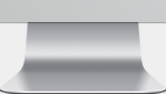
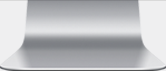
Settings GUI change

diff --git a/Mind Booster/src/com/psychotechnology/GUI/Settings/SettingsPanel.java b/Mind Booster/src/com/psychotechnology/GUI/Settings/SettingsPanel.java
@@ -4,6 +4,7 @@ import java.awt.BorderLayout;
 import java.awt.Color;
 import java.awt.GridBagConstraints;
 import java.awt.GridBagLayout;
+import java.awt.GridLayout;
 import java.awt.Insets;
 import java.io.File;
 
@@ -25,10 +26,15 @@ public class SettingsPanel extends JPanel implements ChangeListener {
 	private Controller controller;
 	private JPanel screenPanel;
 	private PictureLabel screenLabel;
+	private PictureLabel standLabel;
 	public static ImageIcon screen;
+	public static ImageIcon stand;
+	public static ImageIcon picture;
+	public static ImageIcon topLeftMsg;
+	public static JPanel standPanel;
 	public static JPanel picturePanel;
 	public static PictureLabel pictureLabel;
-	public static ImageIcon picture;
+	public static PictureLabel topLeftMsgLabel;
 	private JSlider speedSlider;
 	private JSlider durationSlider;
 	private JLabel speedLabel;
@@ -39,7 +45,7 @@ public class SettingsPanel extends JPanel implements ChangeListener {
 	public SettingsPanel(Controller controller) {
 		this.controller = controller;
 		initComponents();
-		setupSettingsUI();
+		//tupSettingsUI();
 		setupUI();
 		styleUI();
 
@@ -78,11 +84,23 @@ public class SettingsPanel extends JPanel implements ChangeListener {
 	public void initComponents() {
 		screenPanel = new JPanel();
 		screen = IconFetch.getInstance().getIcon("/com/psychotechnology/images/screen.png");
-		screenLabel = new PictureLabel(picture);
+		screenLabel = new PictureLabel(screen);
+		screenPanel.setLayout(new BorderLayout());
+		screenPanel.add(screenLabel, BorderLayout.CENTER);
+		
+		topLeftMsg = IconFetch.getInstance().getIcon("/com/psychotechnology/images/placeholder.png");
+		topLeftMsgLabel = new PictureLabel(topLeftMsg);
+		screenPanel.add(topLeftMsgLabel, BorderLayout.NORTH);
+		
+		standPanel = new JPanel();
+		stand = IconFetch.getInstance().getIcon("/com/psychotechnology/images/stand.png");
+		standLabel = new PictureLabel(stand);
 		
 		picturePanel = new JPanel();
 		picture = new ImageIcon();
 		pictureLabel = new PictureLabel(picture);
+		picturePanel.setLayout(new BorderLayout());
+		picturePanel.add(pictureLabel, BorderLayout.CENTER);
 
 		speedSlider = new JSlider(0, 1000, 50);
 		durationSlider = new JSlider(0, 5000, 50);
@@ -105,12 +123,6 @@ public class SettingsPanel extends JPanel implements ChangeListener {
 
 	public void setupUI() {
 		
-		screenPanel.setLayout(new BorderLayout());
-		screenPanel.add(pictureLabel, BorderLayout.CENTER);
-		
-		picturePanel.setLayout(new BorderLayout());
-		picturePanel.add(pictureLabel, BorderLayout.CENTER);
-
 		/* GridBagLayout settings */
 		setLayout(new GridBagLayout());// set LayoutManager
 		setBackground(Color.decode("#efeff0"));
@@ -118,19 +130,31 @@ public class SettingsPanel extends JPanel implements ChangeListener {
 
 		gc.gridx = 0;
 		gc.gridy = 0;
-		gc.gridwidth = 1;
+		gc.gridwidth = 3;
 		gc.gridheight = 1;
 		gc.weightx = 1;
-		gc.weighty = 0.1;
-		gc.insets = new Insets(90, 0, 30, 30);
+		gc.weighty = 0.6;
+		gc.insets = new Insets(90, 0, 0, 30);
 		gc.anchor = GridBagConstraints.FIRST_LINE_START;
 		gc.fill = GridBagConstraints.BOTH;
 		add(screenPanel, gc); // add component to the ContentPane
 		screenPanel.setBackground(Color.WHITE);
-
+		
 		gc.gridx = 0;
 		gc.gridy = 1;
 		gc.gridwidth = 1;
+		gc.gridheight = 1;
+		gc.weightx = 1;
+		gc.weighty = 0.2;
+		gc.insets = new Insets(0, 0, 30, 30);
+		gc.anchor = GridBagConstraints.FIRST_LINE_START;
+		gc.fill = GridBagConstraints.BOTH;
+		add(standLabel, gc); // add component to the ContentPane
+		
+
+		gc.gridx = 0;
+		gc.gridy = 2;
+		gc.gridwidth = 3;
 		gc.gridheight = 1;
 		gc.weightx = 1;
 		gc.weighty = 0.2;
@@ -163,54 +187,7 @@ public class SettingsPanel extends JPanel implements ChangeListener {
 		gc.gridheight = 1;
 		gc.anchor = GridBagConstraints.LINE_START;
 		gc.fill = GridBagConstraints.NONE;
-		screenPanel.add(speedLabel, gc);
-
-		/*
-		// Speed Label
-		gc.gridx = 0;
-		gc.gridy = 0;
-		gc.weightx = 0.1;
-		gc.weighty = 0.1;
-		gc.gridwidth = 1;
-		gc.gridheight = 1;
-		gc.anchor = GridBagConstraints.LINE_START;
-		gc.fill = GridBagConstraints.NONE;
-		settingsPanel.add(speedLabel, gc);
-
-		// Speed Slider
-		gc.gridx = 0;
-		gc.gridy = 1;
-		gc.weightx = 0.1;
-		gc.weighty = 0.4;
-		gc.gridwidth = 1;
-		gc.gridheight = 1;
-		gc.anchor = GridBagConstraints.LINE_START;
-		gc.fill = GridBagConstraints.BOTH;
-		settingsPanel.add(speedSlider, gc);
-
-		// Duration Label
-		gc.gridx = 0;
-		gc.gridy = 2;
-		gc.weightx = 0.1;
-		gc.weighty = 0.1;
-		gc.gridwidth = 1;
-		gc.gridheight = 1;
-		gc.anchor = GridBagConstraints.LINE_START;
-		gc.fill = GridBagConstraints.NONE;
-		settingsPanel.add(durationLabel, gc);
-
-		// Duration Slider
-		gc.gridx = 0;
-		gc.gridy = 3;
-		gc.weightx = 0.1;
-		gc.weighty = 0.4;
-		gc.gridwidth = 1;
-		gc.gridheight = 1;
-		gc.anchor = GridBagConstraints.LINE_START;
-		gc.fill = GridBagConstraints.BOTH;
-		settingsPanel.add(durationSlider, gc);
-		
-		*/
+		//screenPanel.add(speedLabel, gc);
 	}
 
 	public PictureLabel getPictureLabel() {
